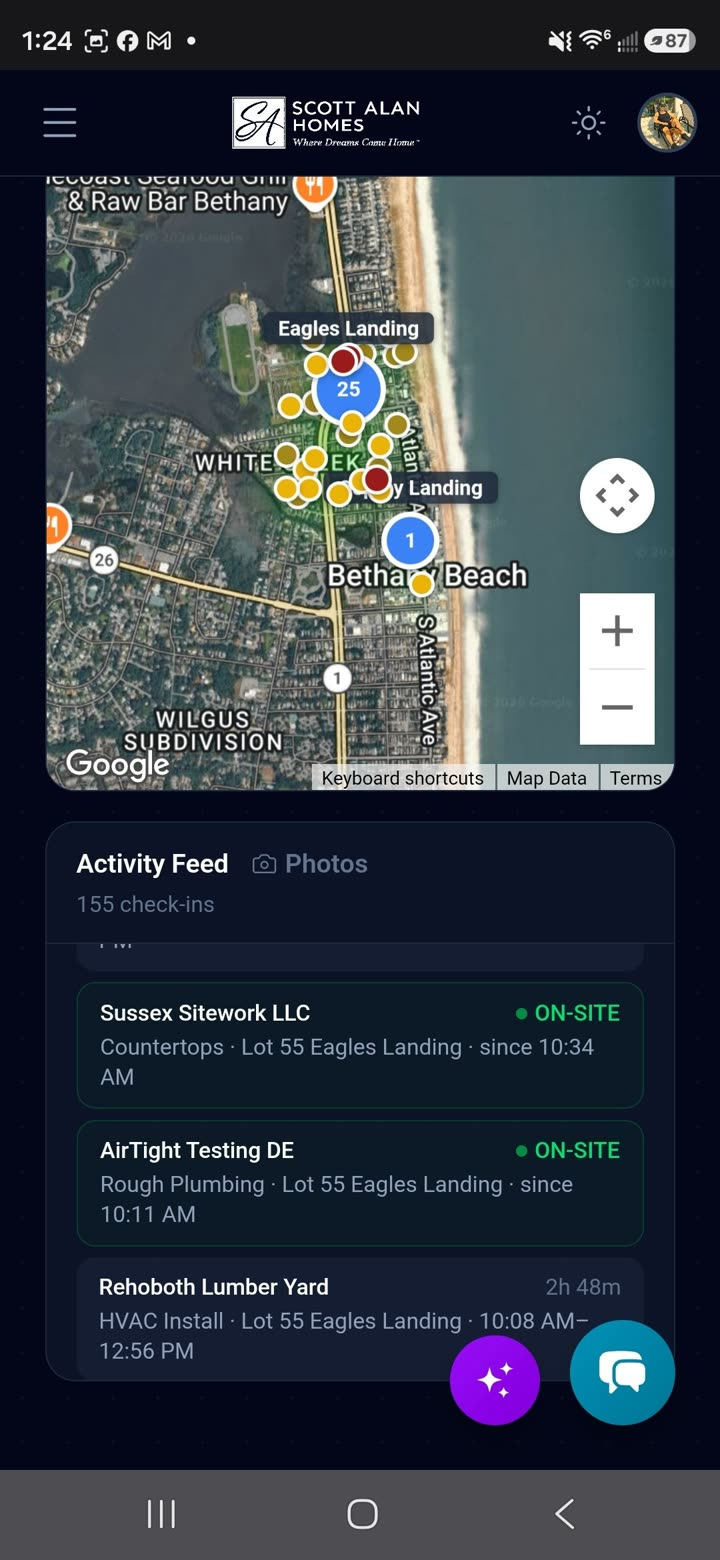
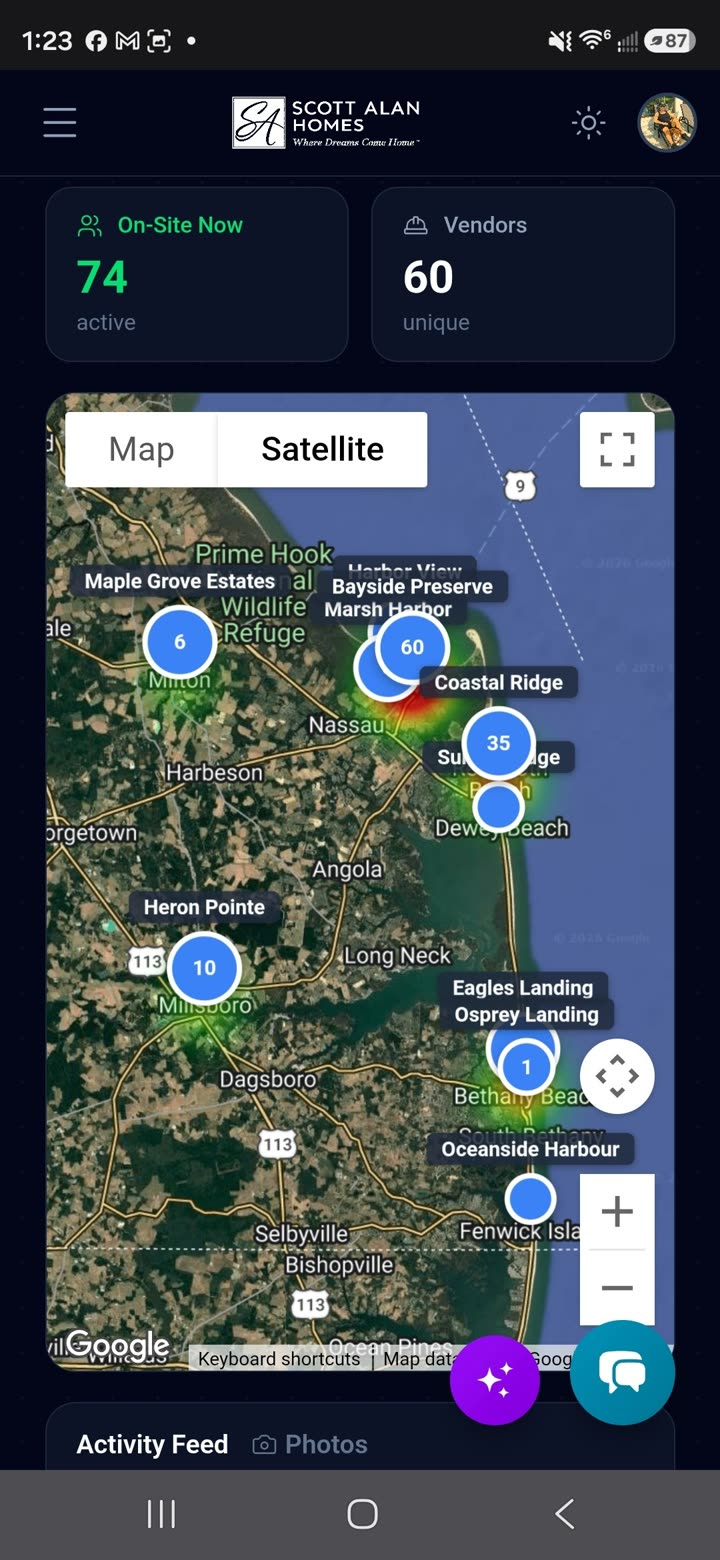
feat(qr): add second mobile screenshot, show overview + drill-in side by side
- New wide mobile shot now hero phone: full coastal map + heatmap + cluster
  counts + 74/60 stat cards (the 'wow' mobile state)
- Previous close-up mobile shot renamed to ss-vendor-activity-map-mobile-detail.jpg
  and shown next to it as the 'Zoom & Drill In' view
- Layout: desktop detail (left) + 2 phones (right) tells the full mobile story
  in one row - same dashboard zoomed out and zoomed in
- Section now: hero desktop overview -> desktop detail + 2 phones -> bullets
- TSC clean

diff --git a/src/app/qr/page.tsx b/src/app/qr/page.tsx
@@ -226,9 +226,9 @@ export default function QRPage() {
             />
           </div>
 
-          {/* Detail desktop + phone */}
-          <div className="grid grid-cols-1 lg:grid-cols-[1.5fr_1fr] gap-6 lg:gap-8 items-center mb-10">
-            {/* Detail screenshot */}
+          {/* Detail desktop + 2 phones */}
+          <div className="grid grid-cols-1 lg:grid-cols-[1.4fr_1fr] gap-6 lg:gap-8 items-center mb-10">
+            {/* Detail desktop screenshot */}
             <div className="relative rounded-xl border border-slate-700 bg-slate-900 overflow-hidden shadow-2xl shadow-violet-500/10">
               <div className="absolute top-3 left-3 z-10 px-2.5 py-1 rounded-full bg-slate-950/80 backdrop-blur-sm border border-violet-500/40 text-violet-300 text-[10px] font-bold tracking-widest uppercase">
                 Drill into any pin
@@ -242,20 +242,40 @@ export default function QRPage() {
                 sizes="(max-width: 1024px) 100vw, 660px"
               />
             </div>
-            {/* Phone screenshot */}
-            <div className="flex justify-center">
-              <div className="relative max-w-[260px] w-full rounded-[2rem] border-4 border-slate-700 bg-slate-900 overflow-hidden shadow-2xl shadow-cyan-500/20">
-                <div className="absolute top-3 left-1/2 -translate-x-1/2 z-10 px-2.5 py-1 rounded-full bg-slate-950/80 backdrop-blur-sm border border-emerald-500/40 text-emerald-400 text-[10px] font-bold tracking-widest uppercase">
-                  In Your Pocket
+
+            {/* Two phone screenshots side-by-side */}
+            <div className="grid grid-cols-2 gap-4 items-start">
+              {/* Phone — overview */}
+              <div className="flex justify-center">
+                <div className="relative w-full max-w-[180px] rounded-[1.75rem] border-4 border-slate-700 bg-slate-900 overflow-hidden shadow-2xl shadow-cyan-500/20">
+                  <div className="absolute top-2.5 left-1/2 -translate-x-1/2 z-10 px-2 py-0.5 rounded-full bg-slate-950/80 backdrop-blur-sm border border-emerald-500/40 text-emerald-400 text-[9px] font-bold tracking-widest uppercase whitespace-nowrap">
+                    In Your Pocket
+                  </div>
+                  <Image
+                    src="/mockups/ss-vendor-activity-map.jpg"
+                    alt="Vendor Activity Map mobile overview - the full coastal Delaware map with heat-map overlay and clustered check-in counts running on a phone, with stat cards showing 74 on-site now and 60 unique vendors"
+                    width={720}
+                    height={1560}
+                    className="w-full h-auto block"
+                    sizes="(max-width: 640px) 45vw, 180px"
+                  />
                 </div>
-                <Image
-                  src="/mockups/ss-vendor-activity-map.jpg"
-                  alt="Vendor Activity Map mobile view - same live map and activity feed running on a phone, with vendor check-ins, trades, lots, and on-site timestamps for Eagles Landing community"
-                  width={720}
-                  height={1560}
-                  className="w-full h-auto block"
-                  sizes="(max-width: 1024px) 65vw, 260px"
-                />
+              </div>
+              {/* Phone — detail */}
+              <div className="flex justify-center">
+                <div className="relative w-full max-w-[180px] rounded-[1.75rem] border-4 border-slate-700 bg-slate-900 overflow-hidden shadow-2xl shadow-violet-500/20">
+                  <div className="absolute top-2.5 left-1/2 -translate-x-1/2 z-10 px-2 py-0.5 rounded-full bg-slate-950/80 backdrop-blur-sm border border-violet-500/40 text-violet-300 text-[9px] font-bold tracking-widest uppercase whitespace-nowrap">
+                    Zoom &amp; Drill In
+                  </div>
+                  <Image
+                    src="/mockups/ss-vendor-activity-map-mobile-detail.jpg"
+                    alt="Vendor Activity Map mobile detail view - zoomed into Eagles Landing community with vendor check-ins, trades, lots, and on-site timestamps in the activity feed below the map"
+                    width={720}
+                    height={1560}
+                    className="w-full h-auto block"
+                    sizes="(max-width: 640px) 45vw, 180px"
+                  />
+                </div>
               </div>
             </div>
           </div>
